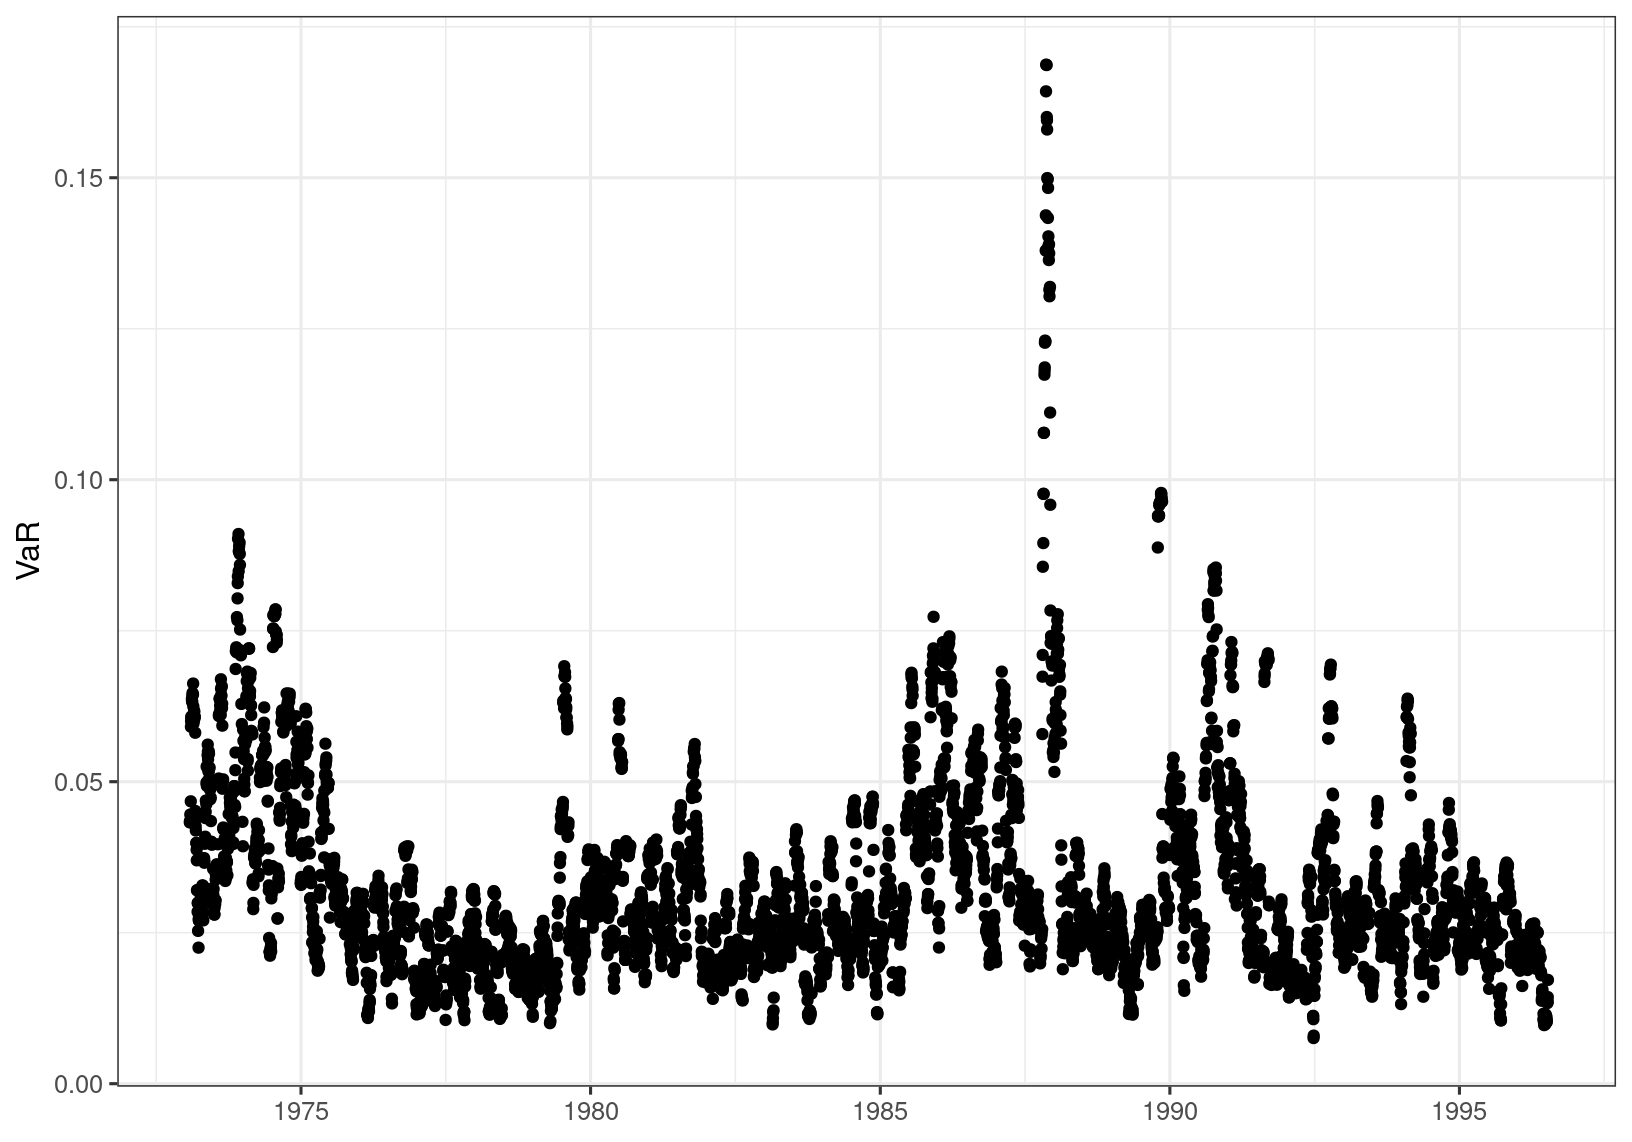
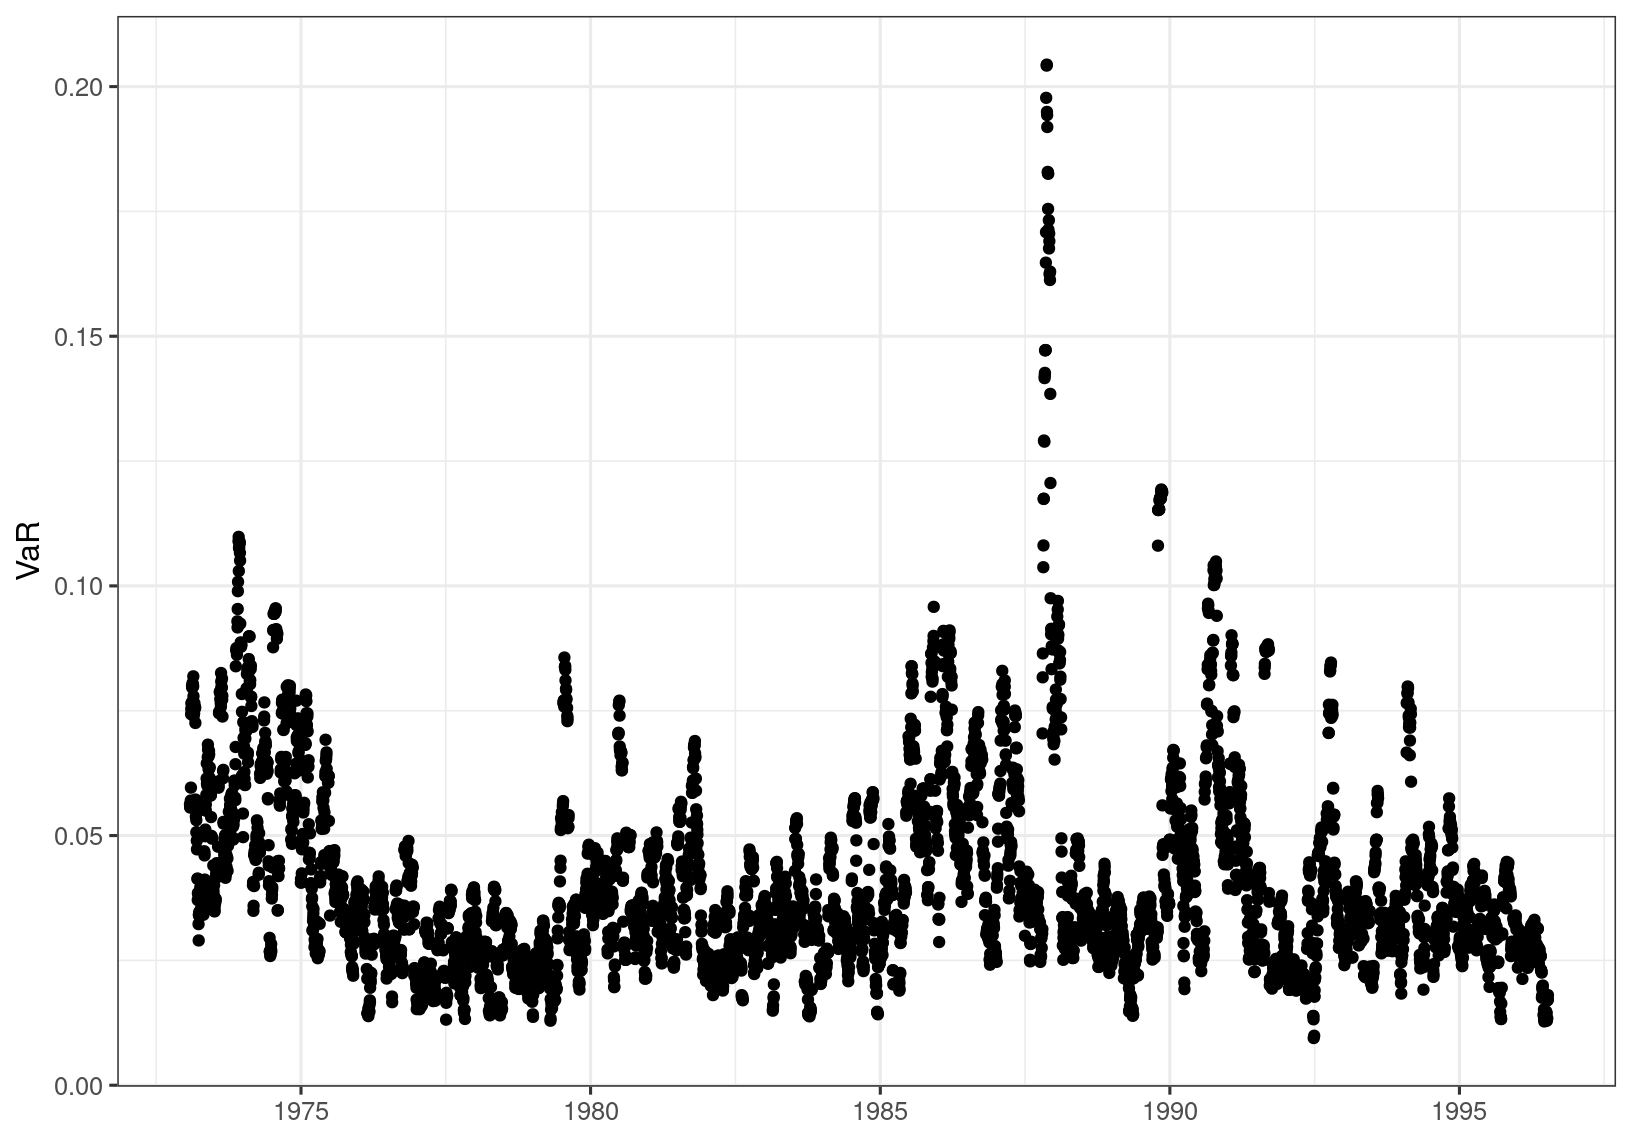
update extremes html (7th version); fix finance chp

diff --git a/extremes/finance.html b/extremes/finance.html
@@ -488,9 +488,9 @@ Figure 7.3: Filtered series for BMW data.
 </p>
 </div>
 <p>We will calculate VaR<span class="math inline">\((p)[t]\)</span> for <span class="math inline">\(t\geq h\)</span>, with <span class="math inline">\(h = 20\)</span>. First we obtain the filtered series, which is shown in Figure <a href="finance.html#fig:bmw-vol">7.3</a>.</p>
-<p>Following the usual procedure the <span class="math inline">\(\text{VaR}(0.99)\)</span> is estimated as <span class="math inline">\(2.46\)</span>. Transforming to the return series gives the following plot of daily <span class="math inline">\(99\)</span>% VaR estimates</p>
+<p>Following the usual procedure the <span class="math inline">\(\text{VaR}(0.99)\)</span> is estimated as <span class="math inline">\(3.06\)</span>. Transforming to the return series gives the following plot of daily <span class="math inline">\(99\)</span>% VaR estimates</p>
 <p><img src="images/bmw-vart-1.png" width="85%" style="display: block; margin: auto;" />
-The proportion of data exceeding <span class="math inline">\(\text{VaR}(0.99)[t]\)</span> is (interestingly) <span class="math inline">\(0.0203\)</span>, much larger than the proportion of data exceeding <span class="math inline">\(\text{VaR}(0.99)\)</span>, which is calculated to be <span class="math inline">\(0.0103\)</span> above.</p>
+The proportion of data exceeding <span class="math inline">\(\text{VaR}(0.99)[t]\)</span> is (interestingly) <span class="math inline">\(0.0105\)</span>, while the proportion of data exceeding <span class="math inline">\(\text{VaR}(0.99)\)</span> is <span class="math inline">\(0.0103\)</span>. Both are correct in the long run.</p>
 </div>
 </div>
 <div id="volatility-models" class="section level2">
